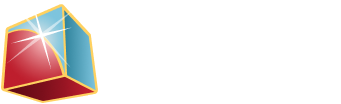
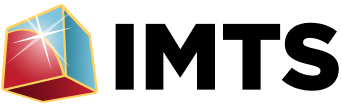
light mode changes

Changed region(s): [[0.3226, 0.2019, 0.9971, 0.8942]]

diff --git a/index.html b/index.html
@@ -5,7 +5,7 @@
   <meta name="viewport" content="width=device-width, initial-scale=1" />
   <title>Tezo at IMTS 2026 | September 14–19, Chicago</title>
   <meta name="description" content="Tezo is attending IMTS 2026 in Chicago. Bring one manufacturing workflow you wish would disappear — order entry, supply chain exceptions, demand and inventory decisions, or service operations." />
-  <meta name="theme-color" content="#000000" />
+  <meta name="theme-color" content="#faf5ec" />
   <script>document.documentElement.classList.add('js');</script>
   <meta property="og:title" content="Tezo at IMTS 2026 | Automation doesn't stop at the machine." />
   <meta property="og:description" content="Attending, not exhibiting. Bring us one workflow you wish would disappear." />
@@ -15,26 +15,29 @@
   <link href="https://fonts.googleapis.com/css2?family=Inter:wght@400;500;600;700;800&display=swap" rel="stylesheet">
   <style>
     :root{
-      --paper:#000;
-      --paper-2:linear-gradient(160deg,#141420 0%,#0a0a10 100%);
-      --tint:#0a0a10;
-      --ink:#f5f4fa;
-      --ink-deep:#0d0b16;
-      --ink-soft:rgba(245,244,250,.72);
-      --muted:rgba(245,244,250,.58);
-      --line:rgba(255,255,255,.14);
+      --paper:#faf5ec;
+      --paper-2:#fdfaf4;
+      --tint:#f4ede1;
+      --beige:#e8dccc;
+      --ink:#1c1c1c;
+      --ink-deep:#000000;
+      --ink-soft:rgba(28,28,28,.72);
+      --muted:rgba(28,28,28,.56);
+      --line:rgba(28,28,28,.12);
       --accent:#e54a59;
-      --accent-deep:#f16875;
-      --accent-dark:#c73847;
-      --accent-soft:rgba(229,74,89,.16);
-      --green:#4fe0bd;
-      --green-soft:rgba(45,215,175,.16);
+      --accent-deep:#c73847;
+      --accent-dark:#a52e3b;
+      --accent-soft:rgba(229,74,89,.10);
+      --green:#4e3aad;
+      --green-soft:rgba(78,58,173,.12);
       --blue:#4e3aad;
-      --blue-deep:#6c58d1;
-      --blue-soft:rgba(78,58,173,.22);
+      --blue-deep:#3c2c86;
+      --blue-soft:rgba(78,58,173,.12);
       --yellow:#b0a8fe;
-      --shadow:0 18px 50px rgba(0,0,0,.5);
-      --shadow-lg:0 20px 60px -16px rgba(20,10,50,.6);
+      --lilac:#b0a8fe;
+      --lilac-soft:rgba(176,168,254,.18);
+      --shadow:0 18px 40px rgba(40,30,80,.09);
+      --shadow-lg:0 26px 60px -18px rgba(40,30,80,.18);
       --radius:22px;
       --max:1120px;
     }
@@ -44,55 +47,55 @@
     img{max-width:100%;height:auto}
     a{color:inherit}
     .wrap{width:min(var(--max),calc(100% - 40px));margin:0 auto}
-    .eyebrow{display:flex;gap:10px;align-items:center;text-transform:uppercase;letter-spacing:.13em;font-size:.76rem;font-weight:800;color:var(--yellow)}
-    .nav{position:sticky;top:0;z-index:50;background:rgba(0,0,0,.92);backdrop-filter:saturate(160%) blur(16px);border-bottom:1px solid rgba(255,255,255,.08)}
+    .eyebrow{display:flex;gap:10px;align-items:center;text-transform:uppercase;letter-spacing:.13em;font-size:.76rem;font-weight:800;color:var(--blue)}
+    .nav{position:sticky;top:0;z-index:50;background:rgba(255,255,255,.88);backdrop-filter:saturate(160%) blur(16px);border-bottom:1px solid rgba(28,28,28,.08)}
     .nav-inner{height:70px;display:flex;align-items:center;justify-content:space-between;gap:20px}
-    .brand{display:flex;align-items:center;gap:9px;text-decoration:none;font-weight:900;letter-spacing:-.04em;font-size:1.5rem;color:#fff}
+    .brand{display:flex;align-items:center;gap:9px;text-decoration:none;font-weight:900;letter-spacing:-.04em;font-size:1.5rem;color:var(--ink)}
     .brand img{height:26px;width:auto;display:block}
     .nav-links{display:flex;gap:26px;align-items:center;font-size:.9rem;font-weight:700}
-    .nav-links a{text-decoration:none;color:var(--ink-soft);transition:color .14s}.nav-links a:hover{color:#fff}
-    .btn{display:inline-flex;align-items:center;justify-content:center;gap:9px;border-radius:999px;padding:12px 18px;font-weight:800;text-decoration:none;border:1px solid rgba(255,255,255,.32);transition:.2s ease;cursor:pointer;font-family:inherit;font-size:.95rem}
-    .btn.primary{background:var(--accent);color:#fff;border-color:var(--accent);box-shadow:0 8px 26px rgba(229,74,89,.34)}.btn.primary:hover{transform:translateY(-2px);background:var(--accent-deep);box-shadow:0 10px 30px rgba(229,74,89,.4)}
-    .btn.ghost{background:transparent;color:#fff}.btn.ghost:hover{background:rgba(255,255,255,.08);border-color:rgba(255,255,255,.6)}
+    .nav-links a{text-decoration:none;color:var(--ink-soft);transition:color .14s}.nav-links a:hover{color:var(--ink)}
+    .btn{display:inline-flex;align-items:center;justify-content:center;gap:9px;border-radius:999px;padding:12px 18px;font-weight:800;text-decoration:none;border:1px solid transparent;transition:.2s ease;cursor:pointer;font-family:inherit;font-size:.95rem}
+    .btn.primary{background:var(--accent);color:#fff;border-color:var(--accent);box-shadow:0 8px 26px rgba(229,74,89,.28)}.btn.primary:hover{transform:translateY(-2px);background:var(--accent-deep);box-shadow:0 10px 30px rgba(229,74,89,.34)}
+    .btn.ghost{background:transparent;color:var(--ink);border:1px solid rgba(28,28,28,.22)}.btn.ghost:hover{background:rgba(28,28,28,.05);border-color:rgba(28,28,28,.4)}
     .mobile-menu{display:none}
 
     .hero{padding:78px 0 54px;overflow:hidden;position:relative;
       background:
-        radial-gradient(78% 62% at 88% -14%,rgba(78,58,173,.72),rgba(78,58,173,0) 62%),
-        radial-gradient(58% 52% at -6% 108%,rgba(229,74,89,.36),rgba(229,74,89,0) 58%),
-        radial-gradient(44% 34% at 26% 16%,rgba(176,168,254,.16),rgba(176,168,254,0) 62%),
+        radial-gradient(78% 62% at 88% -14%,rgba(78,58,173,.16),rgba(78,58,173,0) 62%),
+        radial-gradient(58% 52% at -6% 108%,rgba(229,74,89,.12),rgba(229,74,89,0) 58%),
+        radial-gradient(44% 34% at 26% 16%,rgba(176,168,254,.24),rgba(176,168,254,0) 62%),
         var(--paper)}
-    .hero:before{content:'';position:absolute;inset:0;opacity:.3;pointer-events:none;
-      background-image:linear-gradient(rgba(255,255,255,.035) 1px,transparent 1px),linear-gradient(90deg,rgba(255,255,255,.035) 1px,transparent 1px);
+    .hero:before{content:'';position:absolute;inset:0;opacity:.5;pointer-events:none;
+      background-image:linear-gradient(rgba(28,28,28,.035) 1px,transparent 1px),linear-gradient(90deg,rgba(28,28,28,.035) 1px,transparent 1px);
       background-size:64px 64px;
       mask-image:radial-gradient(70% 60% at 50% 24%,#000,transparent 78%);
       -webkit-mask-image:radial-gradient(70% 60% at 50% 24%,#000,transparent 78%)}
     .hero .wrap{position:relative;z-index:2}
     .hero-grid{display:grid;grid-template-columns:1.05fr .95fr;gap:54px;align-items:center}
     .event-line{font-weight:700;color:var(--ink-soft);margin:19px 0 8px}
-    .attendee-line{font-weight:800;color:var(--yellow);margin:0 0 18px}
-    h1{font-size:80px;letter-spacing:-.06em;line-height:.95;margin:0 0 26px;max-width:980px;color:#fff}
+    .attendee-line{font-weight:800;color:var(--blue);margin:0 0 18px}
+    h1{font-size:80px;letter-spacing:-.06em;line-height:.95;margin:0 0 26px;max-width:980px;color:var(--ink)}
     h1 .accent{color:var(--accent)}
-    .hero-copy{font-size:1.17rem;max-width:680px;color:#c8c4e0;margin-bottom:28px}
-    .hero-copy strong{color:#fff}
+    .hero-copy{font-size:1.17rem;max-width:680px;color:var(--ink-soft);margin-bottom:28px}
+    .hero-copy strong{color:var(--ink)}
     .hero-actions{display:flex;gap:12px;flex-wrap:wrap}
-    .micro{font-size:.82rem;color:#8b86ad;margin-top:16px;max-width:620px}
+    .micro{font-size:.82rem;color:var(--muted);margin-top:16px;max-width:620px}
 
-    .machine-card{background:var(--paper-2);border:1px solid var(--line);border-radius:32px;padding:26px;box-shadow:var(--shadow-lg);position:relative}
+    .machine-card{background:linear-gradient(160deg,#ffffff 0%,rgba(176,168,254,.32) 62%,rgba(78,58,173,.16) 100%);border:1px solid var(--line);border-radius:32px;padding:26px;box-shadow:var(--shadow-lg);position:relative}
     .machine-top{display:flex;justify-content:space-between;gap:20px;align-items:center;margin-bottom:26px}
-    .machine-top strong{color:#fff}
-    .live-pill{font-size:.76rem;font-weight:800;padding:7px 10px;border-radius:999px;background:var(--green-soft);color:var(--green);display:inline-flex;align-items:center;gap:7px}.live-dot{width:7px;height:7px;border-radius:50%;background:var(--green);box-shadow:0 0 0 5px rgba(79,224,189,.14);animation:pulse 1.4s infinite}
+    .machine-top strong{color:var(--ink)}
+    .live-pill{font-size:.76rem;font-weight:800;padding:7px 10px;border-radius:999px;background:var(--blue-soft);color:var(--blue);display:inline-flex;align-items:center;gap:7px}.live-dot{width:7px;height:7px;border-radius:50%;background:var(--blue);box-shadow:0 0 0 5px rgba(78,58,173,.18);animation:pulse 1.4s infinite}
     @keyframes pulse{0%,100%{opacity:1;transform:scale(1)}50%{opacity:.4;transform:scale(.82)}}
     .flow{display:grid;gap:14px}
     .flow-row{display:grid;grid-template-columns:1fr 42px 1fr;align-items:center;gap:10px}
-    .node{border:1px solid var(--line);background:rgba(255,255,255,.045);border-radius:18px;padding:17px;min-height:92px}
-    .node small{display:block;text-transform:uppercase;letter-spacing:.12em;font-size:.63rem;color:var(--muted);font-weight:800;margin-bottom:8px}.node strong{font-size:1rem;color:#fff}
-    .arrow{height:2px;background:var(--line);position:relative}.arrow:after{content:"";position:absolute;right:-1px;top:-4px;border-left:7px solid var(--line);border-top:5px solid transparent;border-bottom:5px solid transparent}
-    .human-glue{background:var(--accent-soft);border-color:rgba(229,74,89,.5);position:relative}.human-glue:after{content:"human glue";position:absolute;right:10px;top:10px;font-size:.62rem;font-weight:900;text-transform:uppercase;letter-spacing:.09em;color:var(--accent-deep)}
+    .node{border:1px solid var(--line);background:rgba(255,255,255,.72);border-radius:18px;padding:17px;min-height:92px}
+    .node small{display:block;text-transform:uppercase;letter-spacing:.12em;font-size:.63rem;color:var(--muted);font-weight:800;margin-bottom:8px}.node strong{font-size:1rem;color:var(--ink)}
+    .arrow{height:2px;background:rgba(28,28,28,.18);position:relative}.arrow:after{content:"";position:absolute;right:-1px;top:-4px;border-left:7px solid rgba(28,28,28,.18);border-top:5px solid transparent;border-bottom:5px solid transparent}
+    .human-glue{background:var(--accent-soft);border-color:rgba(229,74,89,.35);position:relative}.human-glue:after{content:"human glue";position:absolute;right:10px;top:10px;font-size:.62rem;font-weight:900;text-transform:uppercase;letter-spacing:.09em;color:var(--accent-deep)}
     .flow-note{padding:17px 2px 0;color:var(--muted);font-size:.88rem;border-top:1px dashed var(--line);margin-top:18px}
-    .flow-note strong{color:#fff}
+    .flow-note strong{color:var(--ink)}
 
-    .ticker{border-top:1px solid var(--line);border-bottom:1px solid var(--line);padding:17px 0;background:rgba(255,255,255,.03);overflow:hidden}
+    .ticker{border-top:1px solid var(--line);border-bottom:1px solid var(--line);padding:17px 0;background:var(--tint);overflow:hidden}
     .ticker-track{display:flex;gap:38px;white-space:nowrap;animation:ticker 26s linear infinite;font-weight:800;font-size:.9rem;letter-spacing:.02em;color:var(--ink-soft)}
     .ticker-track span:before{content:"✦";color:var(--accent);margin-right:38px}
     @keyframes ticker{to{transform:translateX(-50%)}}
@@ -101,99 +104,101 @@
     #state{padding-top:36px;padding-bottom:36px}
     #fit{padding-top:36px;padding-bottom:36px}
     #questions{padding-top:36px;padding-bottom:36px}
-    #accelerators{padding-top:36px;padding-bottom:36px}
+    #accelerators{padding-top:36px;padding-bottom:36px;background:var(--blue)}
+    #accelerators .eyebrow{color:var(--lilac)}
+    #accelerators .section-head h2{color:#fff}
+    #accelerators .section-head p{color:rgba(255,255,255,.8)}
     #audit{padding-top:36px;padding-bottom:36px}
     #meet{padding-top:36px;padding-bottom:36px}
     #faq{padding-top:36px}
     .section-head{margin-bottom:38px;max-width:100%}
-    .section-head h2{font-size:45px;letter-spacing:-.05em;line-height:1.04;margin:14px 0 0;color:#fff}
+    .section-head h2{font-size:45px;letter-spacing:-.05em;line-height:1.04;margin:14px 0 0;color:var(--ink)}
     .section-head p{margin:18px 0 0;color:var(--muted);font-size:1.06rem;max-width:620px}
 
-    .countdown-panel{display:grid;grid-template-columns:1.2fr .8fr;gap:16px;background:rgba(255,255,255,.06);border:1px solid rgba(255,255,255,.14);backdrop-filter:blur(6px);color:#fff;padding:28px;border-radius:28px;margin-top:46px}
-    .countdown-copy h3{font-size:1.7rem;margin:0 0 6px;letter-spacing:-.03em}.countdown-copy p{margin:0;color:#8b86ad}
+    .countdown-panel{display:grid;grid-template-columns:1.2fr .8fr;gap:16px;background:var(--ink);border:1px solid rgba(255,255,255,.08);color:#fff;padding:28px;border-radius:28px;margin-top:46px}
+    .countdown-copy h3{font-size:1.7rem;margin:0 0 6px;letter-spacing:-.03em;color:#fff}.countdown-copy p{margin:0;color:rgba(255,255,255,.62)}
     .countdown{display:grid;grid-template-columns:repeat(4,1fr);gap:8px}
-    .timebox{background:rgba(0,0,0,.32);border:1px solid rgba(255,255,255,.07);border-radius:16px;text-align:center;padding:16px 7px}.timebox b{display:block;font-size:1.65rem;font-variant-numeric:tabular-nums}.timebox span{font-size:.66rem;text-transform:uppercase;letter-spacing:.11em;color:#8b86ad}
+    .timebox{background:rgba(255,255,255,.08);border:1px solid rgba(255,255,255,.12);border-radius:16px;text-align:center;padding:16px 7px}.timebox b{display:block;font-size:1.65rem;font-variant-numeric:tabular-nums;color:#fff}.timebox span{font-size:.66rem;text-transform:uppercase;letter-spacing:.11em;color:rgba(255,255,255,.55)}
 
     .stats{display:grid;grid-template-columns:repeat(4,1fr);gap:14px}
-    .stat{background:var(--paper-2);border:1px solid var(--line);border-radius:22px;padding:24px;min-height:220px;display:flex;flex-direction:column;justify-content:space-between;transition:.2s}.stat:hover{transform:translateY(-4px);box-shadow:var(--shadow);border-color:rgba(176,168,254,.4)}
-    .stat .num{font-size:3.15rem;font-weight:900;letter-spacing:-.06em;line-height:1;color:var(--yellow)}
-    .stat p{font-weight:700;font-size:.98rem;margin:10px 0 18px;color:#fff}.source{font-size:.72rem;color:var(--muted);text-decoration:none}.source:hover{text-decoration:underline;color:var(--ink-soft)}
+    .stat{background:var(--paper-2);border:1px solid var(--line);border-radius:22px;padding:24px;min-height:220px;display:flex;flex-direction:column;justify-content:space-between;transition:.2s;box-shadow:var(--shadow)}.stat:hover{transform:translateY(-4px);box-shadow:var(--shadow-lg);border-color:rgba(176,168,254,.6)}
+    .stat .num{font-size:3.15rem;font-weight:900;letter-spacing:-.06em;line-height:1;color:var(--blue)}
+    .stat p{font-weight:700;font-size:.98rem;margin:10px 0 18px;color:var(--ink)}.source{font-size:.72rem;color:var(--muted);text-decoration:none}.source:hover{text-decoration:underline;color:var(--ink-soft)}
     .punch-callout{margin-top:32px;border-radius:20px;background:var(--accent);padding:22px 26px}.punch-callout p{margin:0;font-size:1.05rem;line-height:1.5;letter-spacing:-.01em;font-weight:800;color:#fff}.punch-callout em{font-style:normal;color:#fff;text-decoration:underline;text-decoration-color:rgba(255,255,255,.5);text-underline-offset:3px}
     @media(max-width:680px){.punch-callout{padding:18px 20px}.punch-callout p{font-size:.95rem}}
 
     .fit-grid{display:grid;grid-template-columns:repeat(4,1fr);gap:14px;margin-top:30px}
-    .fit-card{padding:24px;border:1px solid var(--line);border-radius:22px;background:rgba(255,255,255,.045);min-height:255px;transition:.2s}.fit-card:hover{border-color:rgba(176,168,254,.4);background:rgba(255,255,255,.07)}
-    .fit-card .idx{font-size:.75rem;font-weight:900;color:var(--accent);letter-spacing:.12em}.fit-card h3{font-size:1.35rem;line-height:1.1;margin:24px 0 10px;letter-spacing:-.03em;color:#fff}.fit-card p{margin:0;color:var(--muted)}
+    .fit-card{padding:24px;border:1px solid var(--line);border-radius:22px;background:var(--paper-2);min-height:255px;transition:.2s;box-shadow:var(--shadow)}.fit-card:hover{border-color:rgba(176,168,254,.6);box-shadow:var(--shadow-lg);transform:translateY(-3px)}
+    .fit-card .idx{font-size:.75rem;font-weight:900;color:var(--accent);letter-spacing:.12em}.fit-card h3{font-size:1.35rem;line-height:1.1;margin:24px 0 10px;letter-spacing:-.03em;color:var(--ink)}.fit-card p{margin:0;color:var(--muted)}
     .fit-callout{margin-top:18px;border-radius:20px;background:var(--accent);color:#fff;padding:21px 24px;font-size:1.25rem;font-weight:900;display:flex;justify-content:space-between;gap:20px;align-items:center}
 
-    .questions{background:
-        radial-gradient(52% 60% at 88% 0%,rgba(78,58,173,.45),transparent 60%),
-        radial-gradient(40% 50% at 0% 100%,rgba(229,74,89,.18),transparent 58%),
-        var(--paper);color:#fff;border-top:1px solid rgba(255,255,255,.08)}
-    .questions .eyebrow,.questions .section-head p{color:#b6b1d0}
+    .questions{background:var(--ink);color:#fff;border-top:1px solid rgba(255,255,255,.08)}
+    .questions .eyebrow{color:var(--lilac)}.questions .section-head p{color:rgba(255,255,255,.65)}.questions .section-head h2{color:#fff}
     .persona-grid{display:grid;grid-template-columns:repeat(2,1fr);gap:14px}
-    .persona{border:1px solid var(--line);border-radius:22px;padding:26px;background:rgba(255,255,255,.045);position:relative;overflow:hidden;transition:.2s}.persona:hover{border-color:rgba(176,168,254,.4);background:rgba(255,255,255,.07)}
-    .persona:before{content:"";width:180px;height:180px;border-radius:50%;position:absolute;right:-90px;top:-110px;background:rgba(229,74,89,.14)}
-    .persona .role{font-size:.77rem;text-transform:uppercase;letter-spacing:.13em;color:var(--accent);font-weight:900}.persona blockquote{font-size:1.35rem;letter-spacing:-.025em;line-height:1.35;margin:16px 0 24px;font-weight:750;color:#fff}.follow{border-top:1px solid var(--line);padding-top:18px;color:#b6b1d0}.follow small{display:block;color:#8b86ad;text-transform:uppercase;letter-spacing:.11em;font-size:.67rem;font-weight:800;margin-bottom:8px}.tezo-fit{margin-top:20px;padding:14px 16px;background:rgba(176,168,254,.1);border-radius:14px;color:#d9d5f0;font-size:.9rem}.tezo-fit b{color:var(--yellow)}
+    .persona{border:1px solid rgba(255,255,255,.12);border-radius:22px;padding:26px;background:rgba(255,255,255,.05);position:relative;overflow:hidden;transition:.2s}.persona:hover{border-color:rgba(176,168,254,.5);background:rgba(255,255,255,.08)}
+    .persona:before{content:"";width:180px;height:180px;border-radius:50%;position:absolute;right:-90px;top:-110px;background:rgba(176,168,254,.16)}
+    .persona .role{font-size:.77rem;text-transform:uppercase;letter-spacing:.13em;color:var(--lilac);font-weight:900}.persona blockquote{font-size:1.35rem;letter-spacing:-.025em;line-height:1.35;margin:16px 0 24px;font-weight:750;color:#fff}.follow{border-top:1px solid rgba(255,255,255,.12);padding-top:18px;color:rgba(255,255,255,.72)}.follow small{display:block;color:rgba(255,255,255,.48);text-transform:uppercase;letter-spacing:.11em;font-size:.67rem;font-weight:800;margin-bottom:8px}.tezo-fit{margin-top:20px;padding:14px 16px;background:rgba(255,255,255,.08);border-radius:14px;color:rgba(255,255,255,.78);font-size:.9rem}.tezo-fit b{color:var(--lilac)}
 
     .accelerators-grid{display:grid;grid-template-columns:repeat(2,1fr);gap:16px}
-    .accelerator{background:var(--paper-2);border:1px solid var(--line);border-radius:28px;overflow:hidden;min-height:440px;display:flex;flex-direction:column;transition:.2s;text-decoration:none;color:inherit}.accelerator:hover{border-color:rgba(176,168,254,.4)}
-    .acc-visual{position:relative;overflow:hidden;padding:22px 22px 24px;padding-top:56px;background:#141420}
-    .acc-visual.order{background:linear-gradient(135deg,rgba(229,74,89,.28),rgba(20,20,32,.9))}
-    .acc-visual.copilot{background:linear-gradient(135deg,rgba(79,224,189,.22),rgba(20,20,32,.9))}
-    .acc-visual.demand{background:linear-gradient(135deg,rgba(78,58,173,.42),rgba(20,20,32,.9))}
-    .acc-visual.service{background:linear-gradient(135deg,rgba(176,168,254,.3),rgba(20,20,32,.9))}
-    .tag{position:absolute;top:18px;left:18px;border-radius:999px;background:rgba(0,0,0,.5);border:1px solid rgba(255,255,255,.14);padding:7px 10px;font-size:.66rem;font-weight:900;letter-spacing:.1em;text-transform:uppercase;color:#fff;backdrop-filter:blur(8px)}
-    .mini-flow{display:flex;flex-wrap:wrap;gap:9px;align-items:center;margin-top:20px}.mini-box{background:rgba(255,255,255,.09);border:1px solid rgba(255,255,255,.16);border-radius:10px;padding:9px 12px;font-size:.72rem;font-weight:850;color:#fff;box-shadow:0 8px 18px rgba(0,0,0,.22);white-space:nowrap}
-    .acc-body{padding:24px;display:flex;flex-direction:column;flex:1}.acc-body h3{font-size:1.75rem;line-height:1.08;margin:0 0 14px;letter-spacing:-.04em;color:#fff}.acc-body p{color:var(--muted);margin:0 0 20px}.why{margin-top:auto;border-top:1px solid var(--line);padding-top:17px;font-size:.9rem;color:var(--ink-soft)}.why b{display:block;margin-bottom:5px;color:var(--yellow);font-family:'Inter';font-size:.72rem;letter-spacing:.1em;text-transform:uppercase}
+    .accelerator{background:var(--paper-2);border:1px solid var(--line);border-radius:28px;overflow:hidden;min-height:440px;display:flex;flex-direction:column;transition:.2s;text-decoration:none;color:inherit;box-shadow:var(--shadow)}.accelerator:hover{border-color:rgba(176,168,254,.6);box-shadow:var(--shadow-lg);transform:translateY(-3px)}
+    .acc-visual{position:relative;overflow:hidden;padding:22px 22px 24px;padding-top:56px;background:var(--blue-soft)}
+    .acc-visual.order{background:linear-gradient(135deg,#fdecee,rgba(229,74,89,.16))}
+    .acc-visual.copilot{background:linear-gradient(135deg,#eeebfa,rgba(78,58,173,.14))}
+    .acc-visual.demand{background:linear-gradient(135deg,#f1eefe,rgba(176,168,254,.32))}
+    .acc-visual.service{background:linear-gradient(135deg,#f6f0e6,rgba(232,220,204,.75))}
+    .tag{position:absolute;top:18px;left:18px;border-radius:999px;background:rgba(255,255,255,.82);border:1px solid rgba(28,28,28,.1);padding:7px 10px;font-size:.66rem;font-weight:900;letter-spacing:.1em;text-transform:uppercase;color:var(--ink);backdrop-filter:blur(8px)}
+    .mini-flow{display:flex;flex-wrap:wrap;gap:9px;align-items:center;margin-top:20px}.mini-box{background:var(--paper-2);border:1px solid rgba(28,28,28,.12);border-radius:10px;padding:9px 12px;font-size:.72rem;font-weight:850;color:var(--ink);box-shadow:0 8px 18px rgba(40,30,80,.08);white-space:nowrap}
+    .acc-body{padding:24px;display:flex;flex-direction:column;flex:1}.acc-body h3{font-size:1.75rem;line-height:1.08;margin:0 0 14px;letter-spacing:-.04em;color:var(--ink)}.acc-body p{color:var(--muted);margin:0 0 20px}.why{margin-top:auto;border-top:1px solid var(--line);padding-top:17px;font-size:.9rem;color:var(--ink-soft)}.why b{display:block;margin-bottom:5px;color:var(--blue);font-family:'Inter';font-size:.72rem;letter-spacing:.1em;text-transform:uppercase}
     .proof{margin-top:10px;color:var(--accent-deep);font-weight:900;font-size:.88rem}
-    .warning{margin:28px 0 0;padding:18px 20px;border:1px dashed rgba(255,255,255,.25);border-radius:18px;color:var(--muted);font-size:.96rem}
-    .warning strong{color:#fff}
+    .warning{margin:28px 0 0;padding:18px 20px;border:1px dashed rgba(28,28,28,.22);border-radius:18px;color:var(--muted);font-size:.96rem}
+    .warning strong{color:var(--ink)}
 
     .audit{background:var(--tint)}
-    .audit-card{background:var(--paper-2);border:1px solid var(--line);border-radius:30px;padding:30px;display:grid;grid-template-columns:.82fr 1.18fr;gap:30px;align-items:start}
-    .audit-intro h3{font-size:2.2rem;line-height:1;margin:12px 0 16px;letter-spacing:-.05em;color:#fff}.audit-intro p{color:var(--muted)}
-    .audit-list{display:grid;grid-template-columns:1fr 1fr;gap:10px}.audit-item{padding:13px 14px;border-radius:14px;background:rgba(255,255,255,.045);border:1px solid var(--line);display:flex;align-items:center;justify-content:space-between;gap:10px;font-size:.9rem;font-weight:750;color:#fff}.dots{display:flex;gap:5px}.dots i{width:8px;height:8px;border-radius:50%;background:rgba(255,255,255,.18)}.dots i:first-child{background:var(--accent)}
-    .audit-question{grid-column:1/-1;margin-top:8px;background:#141420;border:1px solid var(--line);color:#fff;border-radius:18px;padding:18px 20px;font-weight:900;font-size:1.1rem}
+    .audit-card{background:var(--paper-2);border:1px solid var(--line);border-radius:30px;padding:30px;display:grid;grid-template-columns:.82fr 1.18fr;gap:30px;align-items:start;box-shadow:var(--shadow-lg)}
+    .audit-intro .eyebrow{color:var(--blue)}
+    .audit-intro h3{font-size:2.2rem;line-height:1;margin:12px 0 16px;letter-spacing:-.05em;color:var(--ink)}.audit-intro p{color:var(--muted)}
+    .audit-intro .btn.ghost{color:var(--ink);border-color:rgba(28,28,28,.22)}.audit-intro .btn.ghost:hover{background:rgba(28,28,28,.05);border-color:rgba(28,28,28,.4)}
+    .audit-list{display:grid;grid-template-columns:1fr 1fr;gap:10px}.audit-item{padding:13px 14px;border-radius:14px;background:var(--tint);border:1px solid var(--line);display:flex;align-items:center;justify-content:space-between;gap:10px;font-size:.9rem;font-weight:750;color:var(--ink)}.dots{display:flex;gap:5px}.dots i{width:8px;height:8px;border-radius:50%;background:rgba(28,28,28,.16)}.dots i:first-child{background:var(--accent)}
+    .audit-question{grid-column:1/-1;margin-top:8px;background:var(--blue);border:1px solid rgba(28,28,28,.06);color:#fff;border-radius:18px;padding:18px 20px;font-weight:900;font-size:1.1rem}
 
     .meet-grid{display:grid;grid-template-columns:1fr 1fr;gap:16px}
-    .meet-card{border:1px solid var(--line);background:var(--paper-2);border-radius:26px;padding:28px;transition:.2s}.meet-card:hover{border-color:rgba(176,168,254,.4)}.meet-card h3{font-size:1.75rem;letter-spacing:-.04em;margin:6px 0 12px;color:#fff}.meet-card p{color:var(--muted)}.meet-card ul{padding-left:18px;color:var(--ink-soft)}.meet-card li{margin:8px 0}
+    .meet-card{border:1px solid var(--line);background:var(--paper-2);border-radius:26px;padding:28px;transition:.2s;box-shadow:var(--shadow)}.meet-card:hover{border-color:rgba(176,168,254,.6);box-shadow:var(--shadow-lg)}.meet-card h3{font-size:1.75rem;letter-spacing:-.04em;margin:6px 0 12px;color:var(--ink)}.meet-card p{color:var(--muted)}.meet-card ul{padding-left:18px;color:var(--ink-soft)}.meet-card li{margin:8px 0}
 
     .expert-grid{display:grid;grid-template-columns:1fr 1fr;gap:16px;margin-top:16px}
-    .expert-card{border:1px solid var(--line);background:var(--paper-2);border-radius:26px;overflow:hidden;transition:.2s}.expert-card:hover{border-color:rgba(176,168,254,.4);transform:translateY(-2px)}
+    .expert-card{border:1px solid var(--line);background:var(--paper-2);border-radius:26px;overflow:hidden;transition:.2s;box-shadow:var(--shadow)}.expert-card:hover{border-color:rgba(176,168,254,.6);box-shadow:var(--shadow-lg);transform:translateY(-2px)}
     .expert-photo{position:relative;aspect-ratio:16/10;background:var(--blue-soft);overflow:hidden}.expert-photo img{width:100%;height:100%;object-fit:cover;display:block}
-    .expert-photo:after{content:"";position:absolute;inset:0;background:linear-gradient(180deg,rgba(0,0,0,0) 55%,rgba(10,10,16,.9) 100%)}
+    .expert-photo:after{content:"";position:absolute;inset:0;background:linear-gradient(180deg,rgba(60,44,134,0) 55%,rgba(28,20,64,.68) 100%)}
     .expert-body{padding:22px 24px 26px}
-    .expert-body h3{font-size:1.35rem;margin:0 0 4px;color:#fff;letter-spacing:-.03em}
+    .expert-body h3{font-size:1.35rem;margin:0 0 4px;color:var(--ink);letter-spacing:-.03em}
     .expert-role{font-size:.82rem;font-weight:800;color:var(--accent-deep);margin-bottom:18px}
     .expert-label{font-size:.66rem;text-transform:uppercase;letter-spacing:.12em;color:var(--muted);font-weight:800;margin-bottom:10px}
     .expert-tags{display:flex;flex-wrap:wrap;gap:8px;margin-bottom:22px}
-    .expert-tags span{border:1px solid var(--line);border-radius:999px;padding:7px 12px;font-size:.78rem;color:var(--ink-soft)}
-    .expert-link{font-size:.85rem;font-weight:800;color:var(--yellow);text-decoration:none}.expert-link:hover{text-decoration:underline}
-    .spot{display:flex;gap:14px;align-items:flex-start;margin-top:22px;padding-top:20px;border-top:1px solid var(--line)}.spot-icon{width:44px;height:44px;border-radius:14px;background:var(--accent-soft);display:grid;place-items:center;font-size:1.2rem}.spot b{display:block;color:#fff}
+    .expert-tags span{border:1px solid var(--line);border-radius:999px;padding:7px 12px;font-size:.78rem;color:var(--ink-soft);background:var(--tint)}
+    .expert-link{font-size:.85rem;font-weight:800;color:var(--blue);text-decoration:none}.expert-link:hover{text-decoration:underline}
+    .spot{display:flex;gap:14px;align-items:flex-start;margin-top:22px;padding-top:20px;border-top:1px solid var(--line)}.spot-icon{width:44px;height:44px;border-radius:14px;background:var(--accent-soft);display:grid;place-items:center;font-size:1.2rem}.spot b{display:block;color:var(--ink)}
 
-    .faq-list{display:grid;gap:10px;max-width:920px;margin:0 auto}.faq{border:1px solid var(--line);background:var(--paper-2);border-radius:18px;overflow:hidden}.faq button{width:100%;border:0;background:transparent;padding:20px;text-align:left;display:flex;justify-content:space-between;gap:20px;font-size:1rem;font-weight:850;cursor:pointer;color:#fff}.faq button span:last-child{font-size:1.3rem;color:var(--accent)}.faq .answer{display:none;padding:0 20px 20px;color:var(--muted);max-width:790px}.faq.open .answer{display:block}.faq.open button span:last-child{transform:rotate(45deg)}
+    .faq-list{display:grid;gap:10px;max-width:920px;margin:0 auto}.faq{border:1px solid var(--line);background:var(--paper-2);border-radius:18px;overflow:hidden;box-shadow:var(--shadow)}.faq button{width:100%;border:0;background:transparent;padding:20px;text-align:left;display:flex;justify-content:space-between;gap:20px;font-size:1rem;font-weight:850;cursor:pointer;color:var(--ink)}.faq button span:last-child{font-size:1.3rem;color:var(--accent)}.faq .answer{display:none;padding:0 20px 20px;color:var(--muted);max-width:790px}.faq.open .answer{display:block}.faq.open button span:last-child{transform:rotate(45deg)}
 
     .final-cta{padding:94px 0;color:#fff;text-align:left;overflow:hidden;position:relative;
-      background:radial-gradient(70% 100% at 15% -10%,rgba(78,58,173,.7),rgba(78,58,173,0) 62%),
-      radial-gradient(60% 90% at 100% 120%,rgba(229,74,89,.42),rgba(229,74,89,0) 58%),var(--paper)}
-    .final-cta .eyebrow{color:var(--yellow)}
-    .final-box{position:relative;z-index:2;display:grid;grid-template-columns:1fr auto;gap:30px;align-items:end}.final-box h2{font-size:clamp(2.6rem,5.2vw,5.5rem);letter-spacing:-.06em;line-height:.96;margin:16px 0 20px;max-width:900px;color:#fff}.final-box p{max-width:670px;font-size:1.05rem;color:#c8c4e0}.final-box .btn{background:var(--accent);color:#fff;border-color:var(--accent);white-space:nowrap;box-shadow:0 8px 26px rgba(229,74,89,.34)}.final-box .btn:hover{background:var(--accent-deep);transform:translateY(-2px)}
-    footer{background:#0d0b16;color:#7a7593;padding:32px 0 46px;font-size:.79rem;border-top:1px solid rgba(255,255,255,.08)}.footer-grid{display:grid;grid-template-columns:1fr 1fr;gap:24px}.footer-grid strong{color:#fff}.footer-links{text-align:right}.footer-links a{color:#9b96b5;margin-left:18px;text-decoration:none}.footer-links a:hover{color:#fff}.sources{margin-top:24px;padding-top:20px;border-top:1px solid rgba(255,255,255,.08);line-height:1.75}.sources a{color:#9b96b5}
+      background:radial-gradient(70% 100% at 15% -10%,rgba(255,255,255,.22),rgba(255,255,255,0) 62%),
+      radial-gradient(60% 90% at 100% 120%,rgba(176,168,254,.4),rgba(176,168,254,0) 58%),linear-gradient(160deg,var(--accent) 0%,var(--accent-dark) 100%)}
+    .final-cta .eyebrow{color:#fff}
+    .final-box{position:relative;z-index:2;display:grid;grid-template-columns:1fr auto;gap:30px;align-items:end}.final-box h2{font-size:clamp(2.6rem,5.2vw,5.5rem);letter-spacing:-.06em;line-height:.96;margin:16px 0 20px;max-width:900px;color:#fff}.final-box p{max-width:670px;font-size:1.05rem;color:rgba(255,255,255,.82)}.final-box .btn{background:#fff;color:var(--accent-dark);border-color:#fff;white-space:nowrap;box-shadow:0 8px 26px rgba(0,0,0,.18)}.final-box .btn:hover{background:var(--tint);transform:translateY(-2px)}
+    footer{background:var(--tint);color:var(--ink-soft);padding:32px 0 46px;font-size:.79rem;border-top:1px solid var(--line)}.footer-grid{display:grid;grid-template-columns:1fr 1fr;gap:24px}.footer-grid strong{color:var(--ink)}.footer-links{text-align:right}.footer-links a{color:var(--ink-soft);margin-left:18px;text-decoration:none}.footer-links a:hover{color:var(--ink)}.sources{margin-top:24px;padding-top:20px;border-top:1px solid var(--line);line-height:1.75}.sources a{color:var(--blue)}
 
-    .modal-overlay{position:fixed;inset:0;z-index:200;background:rgba(5,4,10,.72);backdrop-filter:blur(6px);display:none;align-items:center;justify-content:center;padding:20px}
+    .modal-overlay{position:fixed;inset:0;z-index:200;background:rgba(20,15,40,.45);backdrop-filter:blur(6px);display:none;align-items:center;justify-content:center;padding:20px}
     .modal-overlay.open{display:flex}
     .modal-card{width:100%;max-width:480px;max-height:90vh;overflow-y:auto;background:var(--paper-2);border:1px solid var(--line);border-radius:26px;padding:30px;box-shadow:var(--shadow-lg);position:relative}
-    .modal-close{position:absolute;top:16px;right:16px;width:34px;height:34px;border-radius:50%;border:1px solid var(--line);background:rgba(255,255,255,.05);color:#fff;font-size:1.1rem;line-height:1;cursor:pointer;display:grid;place-items:center}
-    .modal-close:hover{background:rgba(255,255,255,.12)}
+    .modal-close{position:absolute;top:16px;right:16px;width:34px;height:34px;border-radius:50%;border:1px solid var(--line);background:var(--tint);color:var(--ink);font-size:1.1rem;line-height:1;cursor:pointer;display:grid;place-items:center}
+    .modal-close:hover{background:rgba(28,28,28,.1)}
     .modal-card .eyebrow{margin-bottom:10px}
-    .modal-card h3{font-size:1.55rem;letter-spacing:-.03em;margin:0 0 8px;color:#fff;line-height:1.15}
+    .modal-card h3{font-size:1.55rem;letter-spacing:-.03em;margin:0 0 8px;color:var(--ink);line-height:1.15}
     .modal-card .modal-copy{color:var(--muted);font-size:.94rem;margin:0 0 22px;line-height:1.5}
     .modal-form{display:grid;gap:13px}
     .modal-field label{display:block;font-size:.72rem;font-weight:800;text-transform:uppercase;letter-spacing:.09em;color:var(--muted);margin-bottom:7px}
-    .modal-field input,.modal-field textarea{width:100%;background:rgba(255,255,255,.05);border:1px solid var(--line);border-radius:12px;padding:12px 14px;color:#fff;font-family:inherit;font-size:.95rem;transition:.15s}
-    .modal-field input::placeholder,.modal-field textarea::placeholder{color:rgba(245,244,250,.32)}
-    .modal-field input:focus,.modal-field textarea:focus{outline:none;border-color:var(--accent);background:rgba(255,255,255,.08)}
+    .modal-field input,.modal-field textarea{width:100%;background:var(--tint);border:1px solid var(--line);border-radius:12px;padding:12px 14px;color:var(--ink);font-family:inherit;font-size:.95rem;transition:.15s}
+    .modal-field input::placeholder,.modal-field textarea::placeholder{color:rgba(28,28,28,.35)}
+    .modal-field input:focus,.modal-field textarea:focus{outline:none;border-color:var(--accent);background:var(--paper-2)}
     .modal-field textarea{resize:vertical;min-height:80px}
     .modal-submit{margin-top:6px;width:100%;justify-content:center;font-size:1rem;padding:14px 18px}
     .modal-submit:disabled{opacity:.6;cursor:default;transform:none}
@@ -201,8 +206,8 @@
     .modal-error.show{display:block}
     .modal-success{display:none;text-align:center;padding:16px 0 4px}
     .modal-success.show{display:block}
-    .modal-success .check{width:52px;height:52px;border-radius:50%;background:var(--green-soft);color:var(--green);display:grid;place-items:center;font-size:1.6rem;margin:0 auto 16px}
-    .modal-success h3{margin-bottom:8px}
+    .modal-success .check{width:52px;height:52px;border-radius:50%;background:var(--green-soft);color:var(--blue);display:grid;place-items:center;font-size:1.6rem;margin:0 auto 16px}
+    .modal-success h3{margin-bottom:8px;color:var(--ink)}
     .modal-success p{color:var(--muted);font-size:.94rem}
 
     .reveal{opacity:1;transform:none}.js .reveal{opacity:0;transform:translateY(18px);transition:.6s ease}.js .reveal.show{opacity:1;transform:none}
@@ -236,7 +241,7 @@
 <body>
   <nav class="nav">
     <div class="wrap nav-inner">
-      <a class="brand" href="#top" aria-label="Tezo IMTS home"><img src="logow.png" alt="Tezo"></a>
+      <a class="brand" href="#top" aria-label="Tezo IMTS home"><img src="tezo.png" alt="Tezo"></a>
       <div class="nav-links">
         <a href="#fit">Where we fit</a><a href="#questions">The questions</a><a href="#accelerators">What we'll show</a><a href="#meet">Meet us</a>
       </div>
@@ -316,10 +321,12 @@
 
     <section id="accelerators">
       <div class="wrap">
-        <div class="section-head reveal"><div><div class="eyebrow">If you ask, we'll show you</div><h2>Two frameworks that run. Ninety seconds each. On a laptop, somewhere in McCormick Place.</h2></div><p>No booth, no stage, no thirty-seven-slide transformation deck. Two working patterns instead of a product catalogue, and they sit at opposite ends of the same plant: the order coming in the front, and the machine that has to make it.</p></div>
+        <div class="section-head reveal"><div><div class="eyebrow">If you ask, we'll show you</div><h2>Four things that run. Ninety seconds each. On a laptop, somewhere in McCormick Place.</h2></div><p>No booth, no stage, no thirty-seven-slide transformation deck. Four working patterns for the kinds of operational problems we expect to hear all week — order intake, supply-chain visibility, demand & inventory planning, and service dispatch.</p></div>
         <div class="accelerators-grid">
-          <a class="accelerator reveal" href="https://org.tezo.com/accelerator/agentic-quote-to-cash/" target="_blank" rel="noopener"><div class="acc-visual order"><span class="tag">Accelerator 01</span><div class="mini-flow"><span class="mini-box">RFQ email</span><span class="mini-box">Catalogue + ERP</span><span class="mini-box">Margin check</span><span class="mini-box">Quote</span></div></div><div class="acc-body"><h3>Order Entry & RFQ Automation</h3><p>A customer RFQ arrives the way customer RFQs actually arrive: an email, a spreadsheet, a drawing attached. The agent reads it, matches every line to your catalogue and your ERP, checks stock and lead time, prices it against your margin floor and drafts the quote. A person reads that draft and sends it.</p><div class="why"><b>Why it's different</b>The margin floor lives in the interface, not in a policy document. A quote that breaks it cannot be sent. Going below it is an exception with a name on it, a reason attached and a record left behind. And it doesn't stop at the quote: the order, the invoice and the cash application run on the same thread.<div class="proof">What you'll see: an RFQ email land, and a priced quote come back out of it.</div></div></div></a>
-          <a class="accelerator reveal" href="https://org.tezo.com/accelerator/agentic-predictive-intelligence/" target="_blank" rel="noopener"><div class="acc-visual copilot"><span class="tag">Accelerator 02</span><div class="mini-flow"><span class="mini-box">Vibration, temp, load</span><span class="mini-box">Learned baseline</span><span class="mini-box">Ranked cause</span><span class="mini-box">Work order</span></div></div><div class="acc-body"><h3>Predictive Maintenance Intelligence</h3><p>The sensors you already have, on the machines you already run. The model learns what normal looks like for each asset instead of applying one threshold across the floor, then speaks up while the failure pattern is still forming: what is going, why it believes so, and what each response would cost you.</p><div class="why"><b>Why it's different</b>An alarm tells you something has happened. This tells you what is about to, ranks the evidence behind the call, names the causes it has ruled out, and then books the window itself: parts reserved, technician assigned, work order raised.<div class="proof">What you'll see: the model call a failure while the readings still look fine.</div></div></div></a>
+          <a class="accelerator reveal" href="https://youtu.be/nR10BKfUkf8" target="_blank" rel="noopener"><div class="acc-visual order"><span class="tag">Accelerator 01</span><div class="mini-flow"><span class="mini-box">RFQ email</span><span class="mini-box">Catalogue + ERP</span><span class="mini-box">Margin check</span><span class="mini-box">Quote</span></div></div><div class="acc-body"><h3>Order Entry & RFQ Automation</h3><p>A customer RFQ arrives the way customer RFQs actually arrive: an email, a spreadsheet, a drawing attached. The agent reads it, matches every line to your catalogue and your ERP, checks stock and lead time, prices it against your margin floor and drafts the quote. A person reads that draft and sends it.</p><div class="why"><b>Why it's different</b>The margin floor lives in the interface, not in a policy document. A quote that breaks it cannot be sent. Going below it is an exception with a name on it, a reason attached and a record left behind. And it doesn't stop at the quote: the order, the invoice and the cash application run on the same thread.<div class="proof">What you'll see: an RFQ email land, and a priced quote come back out of it.</div></div></div></a>
+          <a class="accelerator reveal" href="https://youtu.be/Kg784SRN38U" target="_blank" rel="noopener"><div class="acc-visual copilot"><span class="tag">Accelerator 02</span><div class="mini-flow"><span class="mini-box">ERP</span><span class="mini-box">WMS</span><span class="mini-box">Supplier</span><span class="mini-box">Ask</span></div></div><div class="acc-body"><h3>Supply Chain Ops Copilot</h3><p>Orders, inventory, supplier and shipment data pulled into one conversational layer, so teams can ask what changed, why it matters and what needs attention right now instead of hunting across four systems for the same answer.</p><div class="why"><b>Why it's different</b>It isn't another dashboard. It turns fragmented operational data into a decision and follow-through workflow, with the reasoning behind every answer shown alongside it.<div class="proof">What you'll see: a supply change land, and the copilot flag who needs to know and why.</div></div></div></a>
+          <a class="accelerator reveal" href="https://youtu.be/zQSLxuRjiC4" target="_blank" rel="noopener"><div class="acc-visual demand"><span class="tag">Accelerator 03</span><div class="mini-flow"><span class="mini-box">Demand</span><span class="mini-box">Inventory</span><span class="mini-box">Action</span></div></div><div class="acc-body"><h3>Demand, Inventory & Supply Intelligence</h3><p>Demand signals, inventory positions, supply constraints and historical patterns combined to surface risk early, so planners spend their attention on the decisions that actually need judgment.</p><div class="why"><b>Why it's different</b>Forecasting becomes a decision workflow, not another forecast file sitting next to the ERP export.<div class="proof">What you'll see: a stock-out risk surfaced days before it would have shown up on a report.</div></div></div></a>
+          <a class="accelerator reveal" href="https://youtu.be/w1v6d8413UA" target="_blank" rel="noopener"><div class="acc-visual service"><span class="tag">Accelerator 04</span><div class="mini-flow"><span class="mini-box">Customer</span><span class="mini-box">Parts</span><span class="mini-box">Tech</span><span class="mini-box">SLA</span></div></div><div class="acc-body"><h3>Service & Dispatch Intelligence</h3><p>Everything that moves after the product leaves the factory — technicians, appointments, parts, routes, capacity and service commitments — optimised against the SLA, not just the nearest open slot.</p><div class="why"><b>Why it's different</b>The goal isn't a prettier dispatch board. It's fewer service exceptions that need a person to catch them.<div class="proof">What you'll see: a dispatch re-route itself the moment a part comes up short.</div></div></div></a>
         </div>
       </div>
     </section>
@@ -386,7 +393,7 @@
     </section>
 
     <section class="final-cta">
-      <div class="wrap final-box reveal"><div><div class="eyebrow" style="color:var(--yellow)">14–19 September · Chicago</div><h2>Twenty minutes. Bring the workflow that's stuck.</h2><p>We don't need a booth to have the useful conversation. Tell us where work still falls out of your systems and into someone's inbox, spreadsheet or daily reconciliation routine.</p></div><button type="button" class="btn" onclick="openLeadModal()">Meet Tezo at IMTS →</button></div>
+      <div class="wrap final-box reveal"><div><div class="eyebrow" style="color:#fff">14–19 September · Chicago</div><h2>Twenty minutes. Bring the workflow that's stuck.</h2><p>We don't need a booth to have the useful conversation. Tell us where work still falls out of your systems and into someone's inbox, spreadsheet or daily reconciliation routine.</p></div><button type="button" class="btn" onclick="openLeadModal()">Meet Tezo at IMTS →</button></div>
     </section>
   </main>
 
